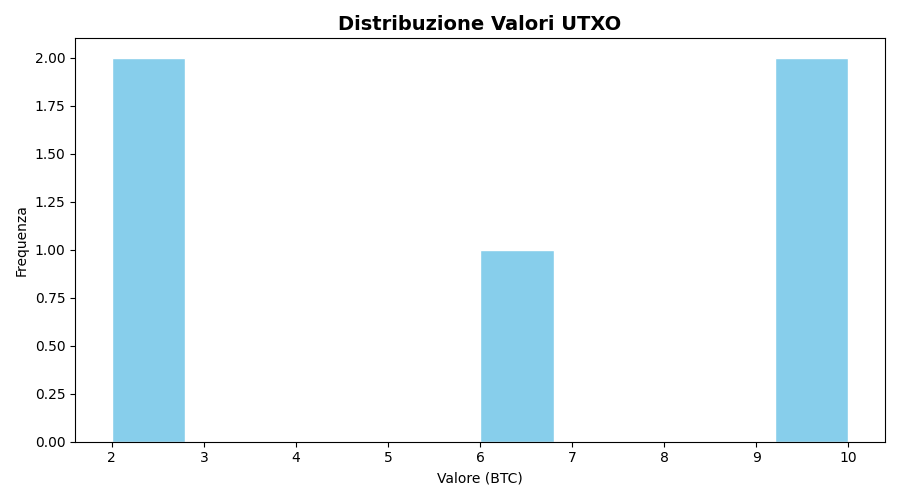
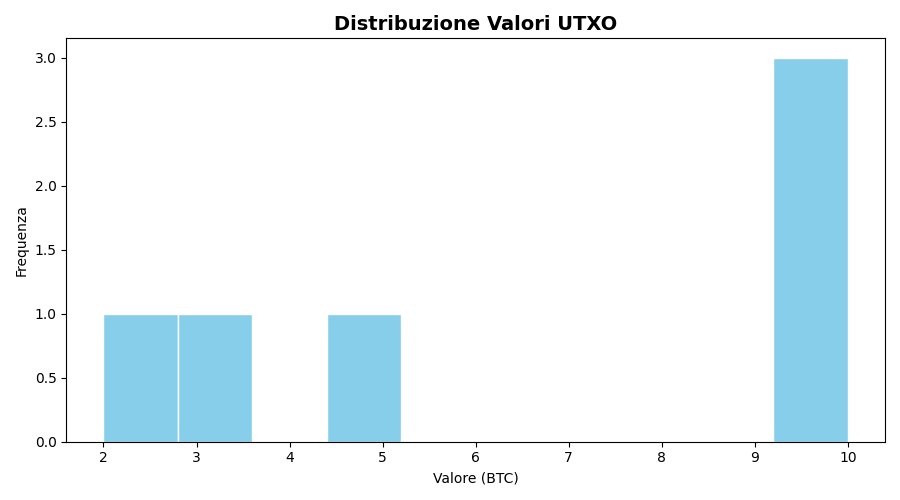
aggiunta nodi 2 e 3

diff --git a/go_blockchain/network/server.go b/go_blockchain/network/server.go
@@ -67,7 +67,7 @@ type GetDataMessage struct {
 }
 
 // Avvia il server per gestire le richieste che accedono al DB sequenzialmente
-func StartServer(storage core.Storage, walletFile string, nodeName string, nodeAddress string) (*Server, error) {
+func StartServer(walletFile string, nodeName string, nodeAddress string) (*Server, error) {
 
 	wallet, err := core.NewWallet(walletFile)
 	if err != nil {
@@ -83,44 +83,48 @@ func StartServer(storage core.Storage, walletFile string, nodeName string, nodeA
 		Mempool:     make(map[string]*core.Transaction),
 	}
 
-	if server.NodeName == centralNode {
+	go server.runServer()
 
-		listAddresses := server.Wallet.GetAddresses()
+	return server, nil
 
+}
+
+func (s *Server) Bootstrap(storage core.Storage) error {
+	if s.NodeName == centralNode {
 		var address string
+		var err error
+
+		listAddresses := s.Wallet.GetAddresses()
 		if len(listAddresses) > 0 {
 			address = listAddresses[0]
 		} else {
-			address, err = server.Wallet.AddAccount()
+			address, err = s.Wallet.AddAccount()
 			if err != nil {
-				return nil, err
+				return err
 			}
-			fmt.Printf("[%s] Nuovo account creato: %s\n", server.NodeName, address)
+			fmt.Printf("[%s] Nuovo account creato: %s\n", s.NodeName, address)
 		}
 
 		bc, err := core.NewBlockchainWithGB(address, storage)
 		if err != nil {
-			return nil, err
+			return err
 		}
 
-		server.Blockchain = bc
+		s.Blockchain = bc
 
 	} else {
 
 		bc, err := core.NewBlockchain(storage)
 		if err != nil {
-			return nil, err
+			return err
 		}
 
-		server.Blockchain = bc
+		s.Blockchain = bc
 
-		server.sendVersion(centralNodeAddress)
+		s.sendVersion(centralNodeAddress)
 	}
 
-	go server.runServer()
-
-	return server, nil
-
+	return nil
 }
 
 func (s *Server) runServer() {
@@ -576,9 +580,6 @@ func (s *Server) handleGetBlocks(msg GetBlocksMessage) {
 
 		blocksToSend = append(blocksToSend, block)
 
-		if len(block.PrevBlockHash) == 0 {
-			break
-		}
 	}
 
 	// Inversione ordine
@@ -653,7 +654,7 @@ func (s *Server) handleBlocks(msg BlocksMessage) {
 		s.cleanMempool(block.Transactions)
 		localHeight++
 
-		if s.NodeName == centralNode && !s.isMiner() {
+		if s.NodeName == centralNode {
 			fmt.Printf("[%s] Central Node propaga il blocco agli altri peer...\n", s.NodeName)
 			s.sendBroadcastInv("block", block.Hash, "")
 		}
@@ -832,6 +833,9 @@ func (s *Server) getBlockchainJSON() ([]BlockResponse, error) {
 		block, err := it.Next()
 		if err != nil {
 			return nil, fmt.Errorf("errore durante il recupero: %w", err)
+		}
+		if block == nil {
+			break
 		}
 
 		var txsInfo []TransactionResponse

diff --git a/go_blockchain/main.go b/go_blockchain/main.go
@@ -5,6 +5,7 @@ import (
 	"log"
 	"net/http"
 	"os"
+	"time"
 
 	"go_blockchain/network"
 	"go_blockchain/storage"
@@ -49,14 +50,24 @@ func main() {
 	defer storage.Close()
 	fmt.Printf("[%s] DB inizializzato con successo\n", nodeName)
 
-	server, err := network.StartServer(storage, walletFile, nodeName, nodeAddress)
+	server, err := network.StartServer(walletFile, nodeName, nodeAddress)
 	if err != nil {
 		fmt.Printf("[%s] Errore creazione server: %s \n", nodeName, err)
 	}
 
 	router := network.SetupRouter(server)
 
-	fmt.Printf("[%s] Nodo avviato sulla porta %s...\n", nodeName, listenPort)
+	go func() {
+		fmt.Printf("[%s] Nodo avviato sulla porta %s...\n", nodeName, listenPort)
+		if err := http.ListenAndServe(":8080", router); err != nil {
+			log.Fatalf("Errore server: %v", err)
+		}
+	}()
 
-	log.Fatal(http.ListenAndServe(":8080", router))
+	time.Sleep(time.Second)
+	if err := server.Bootstrap(storage); err != nil {
+		log.Fatalf("Errore durante il bootstrap: %v", err)
+	}
+
+	select {}
 }

diff --git a/go_blockchain/core/blockchain.go b/go_blockchain/core/blockchain.go
@@ -106,12 +106,11 @@ func (bc *Blockchain) GetBlockchain() ([]string, error) {
 		if err != nil {
 			return nil, fmt.Errorf("errore durante la stampa: %w", err)
 		}
-
-		chain = append(chain, block.String())
-
-		if len(block.PrevBlockHash) == 0 {
+		if block == nil {
 			break
 		}
+
+		chain = append(chain, block.String())
 	}
 	return chain, nil
 }
@@ -126,14 +125,14 @@ func (bc *Blockchain) FindTransaction(ID []byte) (Transaction, error) {
 			return Transaction{}, err
 		}
 
+		if block == nil {
+			break
+		}
+
 		for _, tx := range block.Transactions {
 			if bytes.Equal(tx.ID, ID) {
 				return *tx, nil
 			}
-		}
-
-		if len(block.PrevBlockHash) == 0 {
-			break
 		}
 	}
 

diff --git a/go_blockchain/core/blockchainIterator.go b/go_blockchain/core/blockchainIterator.go
@@ -12,8 +12,13 @@ func (bc *Blockchain) Iterator() *BlockchainIterator {
 
 // Restituisce il blocco precedente nella catena
 func (i *BlockchainIterator) Next() (*Block, error) {
+
+	if len(i.currentHash) == 0 {
+		return nil, nil
+	}
+
 	block, err := i.storage.GetBlock(i.currentHash)
-	if err != nil {
+	if err != nil || block == nil {
 		return nil, err
 	}
 
